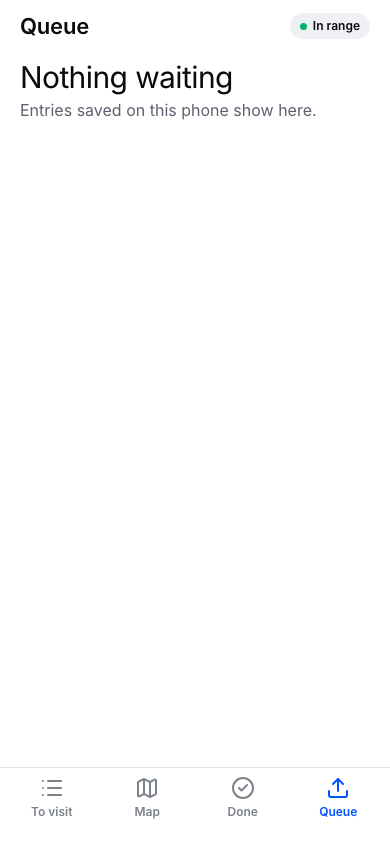
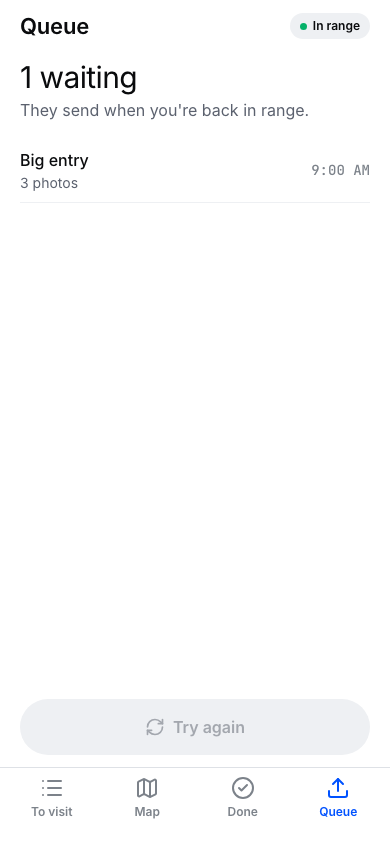
fix(responder): keep one client_id for the life of the form BYTE-48
The assess form made a new client_id on every tap. After a 201 whose body
could not be read, or a 502 after the insert, the next tap posted the same
photos under a new id and made a second entry.

The id now lives in a ref, made on the first Send and reused on every
later tap, even after the photos or note change, until the hub answers
with an id. A different house starts over. The send logic moves to
send-entry.ts so it can be tested. A 2xx with no readable id is a likely
success: the form says the hub may already have the entry and asks for
another tap, which returns the first entry.

Also: an old queue entry takes its row id as its client id, so two tabs
without a Web Lock agree on it, and flushQueue drops stalled ids for
entries that left the queue. The throttled screenshot now shows the
waiting state.

diff --git a/src/components/responder/send-entry.test.ts b/src/components/responder/send-entry.test.ts
@@ -1,0 +1,112 @@
+import { describe, expect, it } from "vitest";
+import { createClientIds, sendEntry, UNCLEAR_ANSWER, type ClientIds } from "./send-entry";
+
+const house = { report_code: "K7P4", barangay: "Dapitan", purok: "Purok 2", household_head: "Maria Santos" };
+const photo = (name = "a.jpg") => new File(["x"], name, { type: "image/jpeg" });
+const UUID = /^[0-9a-f]{8}-[0-9a-f]{4}-4[0-9a-f]{3}-[89ab][0-9a-f]{3}-[0-9a-f]{12}$/;
+
+/** A fetch that answers in order and records the client_id of each POST. */
+function hub(...answers: (() => Response | Promise<Response>)[]) {
+  const ids: string[] = [];
+  const send = (async (_url: string, init?: RequestInit) => {
+    ids.push(JSON.parse(String((init?.body as FormData).get("meta"))).client_id);
+    return answers[ids.length - 1]();
+  }) as unknown as typeof fetch;
+  return { ids, send };
+}
+const tap = (ids: ClientIds, send: typeof fetch, over: Partial<Parameters<typeof sendEntry>[0]> = {}) =>
+  sendEntry({ house, labels: ["Front"], gps: null, photos: [photo()], note: null, ids, ...over }, send);
+
+describe("createClientIds", () => {
+  it("gives the same id until it is cleared, and a new one for another house", () => {
+    const ids = createClientIds();
+    const first = ids.get("K7P4");
+    expect(first).toMatch(UUID);
+    expect(ids.get("K7P4")).toBe(first);
+    expect(ids.get("T3M9")).not.toBe(first);
+    expect(ids.get("T3M9")).not.toBe(ids.get("K7P4"));
+    const again = ids.get("K7P4");
+    ids.clear();
+    expect(ids.get("K7P4")).not.toBe(again);
+  });
+});
+
+describe("sendEntry, the online path", () => {
+  it("keeps one id when a 201 comes back with a body that cannot be read, then finds the entry on the retry", async () => {
+    const { ids: seen, send } = hub(
+      () => new Response("<html>cut off", { status: 201 }),
+      () => new Response(JSON.stringify({ id: "e1", number: 7, status: "draft" }), { status: 200 }),
+    );
+    const ids = createClientIds();
+    const first = await tap(ids, send);
+    // A likely success: the screen must not offer a plain error that invites a fresh entry.
+    expect(first).toEqual({ kind: "unclear" });
+    expect(UNCLEAR_ANSWER).toMatch(/may already have this entry/);
+    expect(await tap(ids, send)).toEqual({ kind: "saved", id: "e1" });
+    expect(seen).toHaveLength(2);
+    expect(seen[1]).toBe(seen[0]);
+    expect(seen[0]).toMatch(UUID);
+  });
+
+  it("keeps one id when a 502 comes back, then again on the retry", async () => {
+    const { ids: seen, send } = hub(
+      () => new Response("{}", { status: 502 }),
+      () => new Response(JSON.stringify({ id: "e1" }), { status: 200 }),
+    );
+    const ids = createClientIds();
+    expect(await tap(ids, send)).toEqual({ kind: "refused", message: "Could not send to the hub. Try again." });
+    expect(await tap(ids, send)).toEqual({ kind: "saved", id: "e1" });
+    expect(seen[1]).toBe(seen[0]);
+  });
+
+  it("keeps the id when the photos or the note change between taps", async () => {
+    const { ids: seen, send } = hub(
+      () => new Response("{}", { status: 502 }),
+      () => new Response(JSON.stringify({ id: "e1" }), { status: 200 }),
+    );
+    const ids = createClientIds();
+    await tap(ids, send);
+    await tap(ids, send, { photos: [photo("b.jpg"), photo("c.jpg")], labels: ["Front", "Roof"], note: new Blob(["n"], { type: "audio/webm" }) });
+    expect(seen[1]).toBe(seen[0]);
+  });
+
+  it("treats a 2xx with a readable body but no id as unclear", async () => {
+    const { send } = hub(() => new Response("{}", { status: 201 }));
+    expect(await tap(createClientIds(), send)).toEqual({ kind: "unclear" });
+  });
+
+  it("keeps the id when the hub never answers, and hands the same one to the queued copy", async () => {
+    const { ids: seen, send } = hub(
+      () => Promise.reject(new TypeError("network")),
+      () => new Response(JSON.stringify({ id: "e1" }), { status: 201 }),
+    );
+    const ids = createClientIds();
+    const lost = await tap(ids, send);
+    if (lost.kind !== "unreachable") throw new Error(lost.kind);
+    expect(lost.meta.client_id).toBe(seen[0]);
+    await tap(ids, send);
+    expect(seen[1]).toBe(seen[0]);
+  });
+
+  it("starts a new id once the entry is saved, and for a different house", async () => {
+    const { ids: seen, send } = hub(
+      () => new Response(JSON.stringify({ id: "e1" }), { status: 201 }),
+      () => new Response(JSON.stringify({ id: "e2" }), { status: 201 }),
+    );
+    const ids = createClientIds();
+    await tap(ids, send);
+    await tap(ids, send, { house: { ...house, report_code: null } });
+    expect(seen[1]).not.toBe(seen[0]);
+  });
+
+  it("counts a 200 like a 201", async () => {
+    const { send } = hub(() => new Response(JSON.stringify({ id: "e1" }), { status: 200 }));
+    expect(await tap(createClientIds(), send)).toEqual({ kind: "saved", id: "e1" });
+  });
+
+  it("does not post a house with no barangay", async () => {
+    const { ids: seen, send } = hub(() => new Response("{}", { status: 201 }));
+    expect(await tap(createClientIds(), send, { house: { ...house, barangay: "" } })).toEqual({ kind: "invalid" });
+    expect(seen).toHaveLength(0);
+  });
+});

diff --git a/src/components/responder/assess-form.tsx b/src/components/responder/assess-form.tsx
@@ -3,16 +3,16 @@
 import { useEffect, useRef, useState } from "react";
 import { useRouter } from "next/navigation";
 import { CameraIcon, MapPinIcon, XIcon } from "lucide-react";
-import { newClientId } from "@/components/family/client-id";
 import { Button } from "@/components/ui/button";
 import { TopBar } from "@/components/ui/top-bar";
 import { routes } from "@/lib/contracts";
 import { Input } from "@/components/ui/input";
 import { Label } from "@/components/ui/label";
 import { Select, SelectContent, SelectItem, SelectTrigger, SelectValue } from "@/components/ui/select";
-import { buildForm, buildMeta, type Gps, gpsText, type House, MAX_PHOTOS, nextLabel, PHOTO_LABELS, sendError } from "./capture";
+import { type Gps, gpsText, type House, MAX_PHOTOS, nextLabel, PHOTO_LABELS } from "./capture";
 import { NoteRecorder } from "./note-recorder";
 import { enqueue } from "./offline-queue";
+import { type ClientIds, createClientIds, sendEntry, UNCLEAR_ANSWER } from "./send-entry";
 import { announceQueueChange } from "./use-queue-sync";
 
 const fieldLabel = "text-body-sm font-semibold text-ink";
@@ -30,6 +30,8 @@ function AssessForm({ house: given, newHouse = false, barangays = [] }: AssessFo
   const router = useRouter();
   const input = useRef<HTMLInputElement>(null);
   const sending = useRef(false);
+  // Made on the first Send and kept for the life of this form, so a tap after a lost reply is a resend.
+  const clientIds = useRef<ClientIds | null>(null);
   const [photos, setPhotos] = useState<Photo[]>([]);
   const [note, setNote] = useState<Blob | null>(null);
   const [seconds, setSeconds] = useState(0);
@@ -74,26 +76,23 @@ function AssessForm({ house: given, newHouse = false, barangays = [] }: AssessFo
     // The ref answers at once. State would still read false for a second tap in
     // the same frame, and each POST makes its own entry.
     if (sending.current || photos.length === 0) return;
-    // One id per tap. The online try and the queued copy both carry it, so the hub
-    // can tell a resend after a lost reply from a new entry.
-    const meta = buildMeta(house, photos.map((p) => p.label), gps, newClientId());
-    if (!meta.success) return setError("This house is missing its barangay. Go back and open it again.");
     sending.current = true;
     setBusy(true);
     setError(null);
-    try {
-      const res = await fetch("/api/entries", { method: "POST", body: buildForm(meta.data, photos.map((p) => p.file), note) });
-      const body = (await res.json().catch(() => null)) as { id?: string; error?: string } | null;
-      if (res.ok && body?.id) {
-        // Stay locked while the next screen loads, so a late tap cannot post again.
-        router.push(routes.responder.drafting(body.id));
-        return;
-      }
-      setError(sendError(res.status, body?.error));
-    } catch {
-      // The hub is out of reach: keep the entry on the phone. It sends from the Queue tab.
+    clientIds.current ??= createClientIds();
+    const outcome = await sendEntry({ house, labels: photos.map((p) => p.label), gps, photos: photos.map((p) => p.file), note, ids: clientIds.current });
+    if (outcome.kind === "saved") {
+      // Stay locked while the next screen loads, so a late tap cannot post again.
+      router.push(routes.responder.drafting(outcome.id));
+      return;
+    }
+    if (outcome.kind === "invalid") setError("This house is missing its barangay. Go back and open it again.");
+    else if (outcome.kind === "unclear") setError(UNCLEAR_ANSWER);
+    else if (outcome.kind === "refused") setError(outcome.message);
+    else {
+      // The hub is out of reach: keep the entry on the phone. It sends from the Queue tab, under the same id.
       try {
-        await enqueue(meta.data, photos.map((p) => p.file), note);
+        await enqueue(outcome.meta, photos.map((p) => p.file), note);
         // The layout tries to send at once, in case only this request failed.
         announceQueueChange();
         // Stay locked while the Queue tab loads, as after a send.

diff --git a/src/components/responder/send-entry.ts b/src/components/responder/send-entry.ts
@@ -1,0 +1,64 @@
+import type { NewEntryMeta } from "@/lib/contracts";
+import { newClientId } from "@/lib/client-id";
+import { buildForm, buildMeta, type Gps, type House, sendError } from "./capture";
+
+// One tap on Send on the online path. Kept apart from the screen so the id rules can be tested.
+
+/**
+ * The client id for one form. It is made on the first Send and every later tap reuses it,
+ * even after the photos or the note changed, until the entry is known to be saved. The hub
+ * answers a repeated id with the first entry, so a tap after a lost or unreadable reply
+ * cannot make a second one. A different house starts over.
+ */
+export function createClientIds(make: () => string = newClientId) {
+  let current: { house: string; id: string } | null = null;
+  return {
+    get(house: string): string {
+      if (current?.house !== house) current = { house, id: make() };
+      return current.id;
+    },
+    clear() {
+      current = null;
+    },
+  };
+}
+export type ClientIds = ReturnType<typeof createClientIds>;
+
+export const UNCLEAR_ANSWER = "The hub may already have this entry, but its answer did not arrive. Tap Send again to check. It will not make a second entry.";
+
+export type SendOutcome =
+  /** The hub took it, now or on an earlier try. */
+  | { kind: "saved"; id: string }
+  /** The hub said 2xx but the answer was unreadable, so the entry is probably saved. Send again with the same id to find out. */
+  | { kind: "unclear" }
+  /** The hub answered with an error. The same id stays, because a 5xx can come after the insert. */
+  | { kind: "refused"; message: string }
+  /** The hub never answered. The caller queues `meta`, which carries the id. */
+  | { kind: "unreachable"; meta: NewEntryMeta }
+  | { kind: "invalid" };
+
+type Input = {
+  house: House;
+  labels: string[];
+  gps: Gps | null;
+  photos: File[];
+  note: Blob | null;
+  ids: ClientIds;
+};
+
+export async function sendEntry({ house, labels, gps, photos, note, ids }: Input, send: typeof fetch = fetch): Promise<SendOutcome> {
+  const meta = buildMeta(house, labels, gps, ids.get(house.report_code ?? "new-house"));
+  if (!meta.success) return { kind: "invalid" };
+  try {
+    const res = await send("/api/entries", { method: "POST", body: buildForm(meta.data, photos, note) });
+    const body = (await res.json().catch(() => null)) as { id?: unknown; error?: string } | null;
+    if (res.ok) {
+      if (typeof body?.id !== "string") return { kind: "unclear" };
+      ids.clear();
+      return { kind: "saved", id: body.id };
+    }
+    return { kind: "refused", message: sendError(res.status, body?.error) };
+  } catch {
+    return { kind: "unreachable", meta: meta.data };
+  }
+}

diff --git a/src/components/responder/offline-queue.ts b/src/components/responder/offline-queue.ts
@@ -1,6 +1,6 @@
 import { buildForm } from "./capture";
-import { newClientId } from "@/components/family/client-id";
-import type { NewEntryMeta } from "@/lib/contracts";
+import { newClientId } from "@/lib/client-id";
+import { NewEntryMeta } from "@/lib/contracts";
 import { parseRetryAfter } from "./retry-backoff";
 
 // Entries saved on the phone while the hub is out of reach. docs/SPEC.md
@@ -135,7 +135,11 @@ function worthRetrying(status: number): boolean {
  * A 200 means the hub already had the entry, and counts as sent like a 201.
  */
 export async function flushQueue(store: QueueStore = browserStore, send: typeof fetch = fetch, stalled: Set<string> = new Set()): Promise<FlushResult> {
-  const items = [...(await store.all())].sort((a, b) => Number(stalled.has(a.id)) - Number(stalled.has(b.id)));
+  const all = await store.all();
+  // Dismissed and sent entries leave the set, so it holds only what is still in the queue.
+  const present = new Set(all.map((e) => e.id));
+  for (const id of stalled) if (!present.has(id)) stalled.delete(id);
+  const items = [...all].sort((a, b) => Number(stalled.has(a.id)) - Number(stalled.has(b.id)));
   let sent = 0;
   let signedOut = false;
   let retry = false;
@@ -144,7 +148,9 @@ export async function flushQueue(store: QueueStore = browserStore, send: typeof 
     if (item.failure) continue;
     if (!item.meta.client_id) {
       // Saved before the phone sent ids. The id is stored before the first send, so a lost reply is resent under the same one.
-      item = { ...item, meta: { ...item.meta, client_id: newClientId() } };
+      // The row id was made by randomUUID, so it serves as the client id. Two tabs without a Web Lock
+      // (plain HTTP) then agree on it, and the hub sees one id however many of them send.
+      item = { ...item, meta: { ...item.meta, client_id: NewEntryMeta.shape.client_id.safeParse(item.id).success ? item.id : newClientId() } };
       try {
         await store.put(item);
       } catch {

diff --git a/src/components/responder/offline-queue.test.ts b/src/components/responder/offline-queue.test.ts
@@ -176,6 +176,16 @@ describe("client id", () => {
     expect(stored).toBe(posted);
   });
 
+  it("uses the row id of an old entry, so two tabs without a Web Lock send it under one id", async () => {
+    const rowId = "4b8f1c2e-77a0-4d3b-9c51-0e6a2f9d8b13";
+    const posted: string[] = [];
+    const ok = (async (_url: string, init?: RequestInit) => (posted.push(clientIdOf(init)), new Response("{}", { status: 201 }))) as unknown as typeof fetch;
+    const tabs = [memoryStore(), memoryStore()];
+    for (const store of tabs) store.items.push({ id: rowId, saved_at: "2026-10-01T00:00:00.000Z", meta, photos: [blob()], note: null });
+    await Promise.all(tabs.map((store) => flushQueue(store, ok)));
+    expect(posted).toEqual([rowId, rowId]);
+  });
+
   it("keeps the id it gave an old entry when the first send is lost", async () => {
     const store = memoryStore();
     store.items.push({ id: "old", saved_at: "2026-10-01T00:00:00.000Z", meta, photos: [blob()], note: null });
@@ -278,6 +288,17 @@ describe("send timeout", () => {
     order.length = 0;
     await flushQueue(store, stall, stalled);
     expect(order).toEqual(["small", "large"]);
+  });
+
+  it("forgets stalled ids for entries that left the queue", async () => {
+    const store = memoryStore();
+    const gone = await enqueue(meta, [big(1)], null, store);
+    const stalled = new Set<string>([gone.id]);
+    await store.remove(gone.id);
+    const kept = await enqueue(meta, [big(1)], null, store);
+    stalled.add(kept.id);
+    await flushQueue(store, (async () => Promise.reject(timeout())) as unknown as typeof fetch, stalled);
+    expect([...stalled]).toEqual([kept.id]);
   });
 
   it("keeps the same client id when a timed out entry is sent again", async () => {
